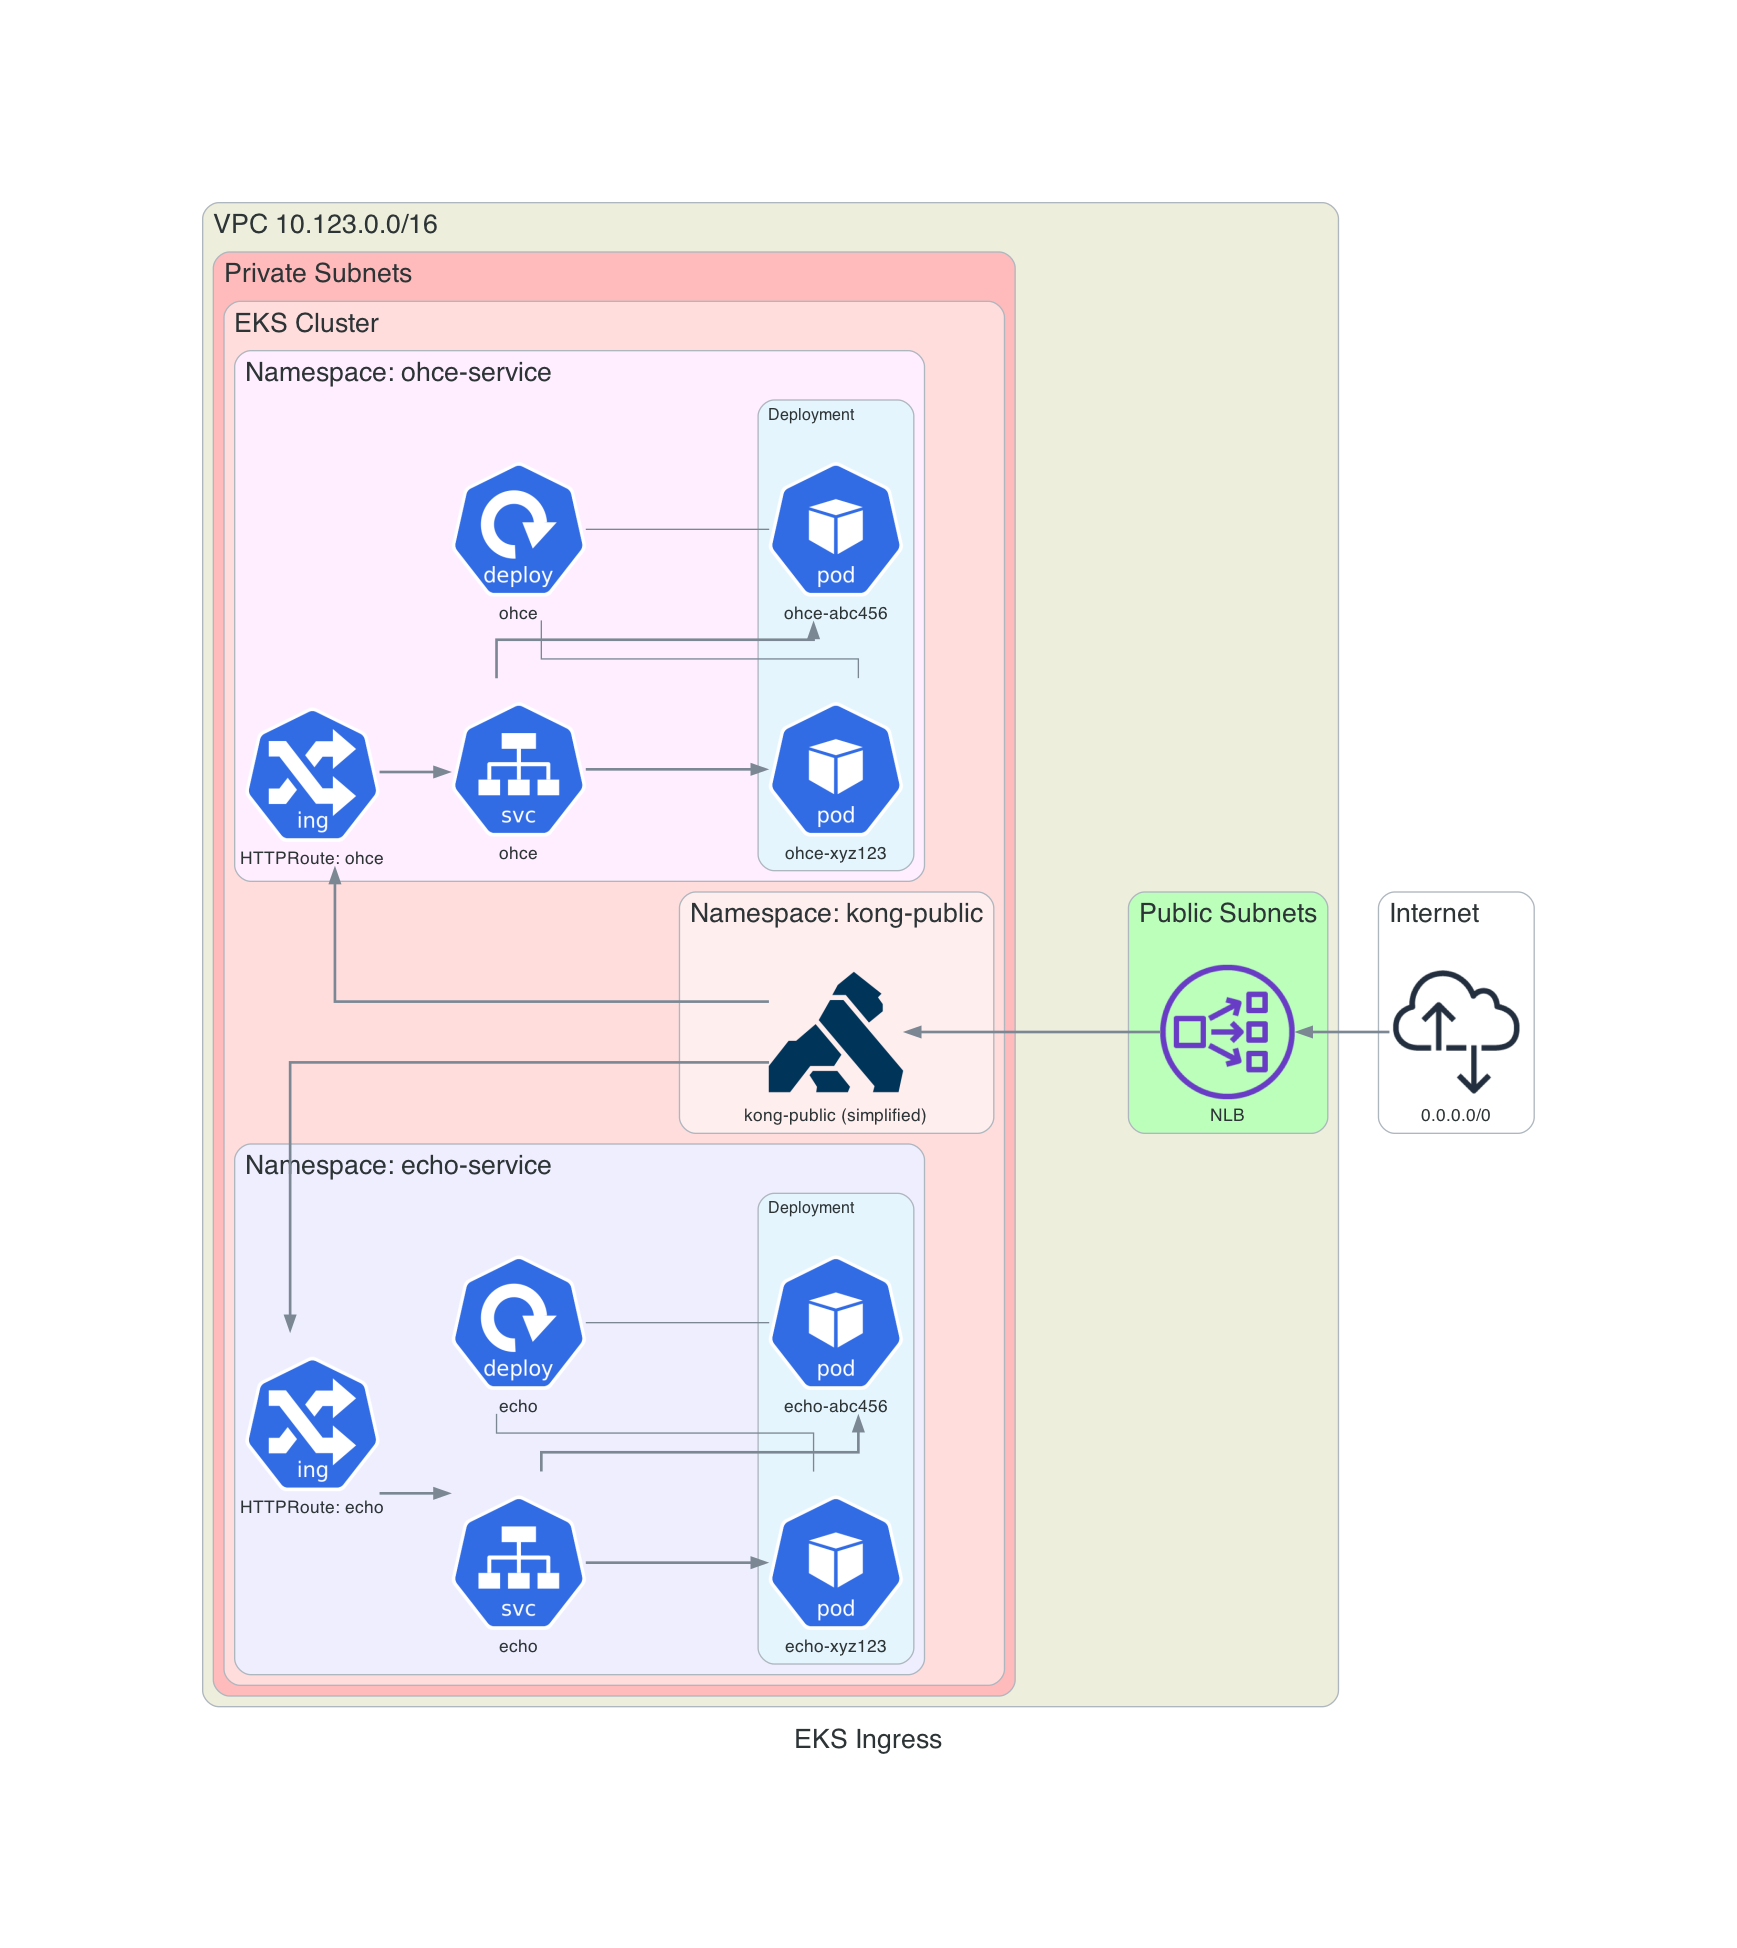
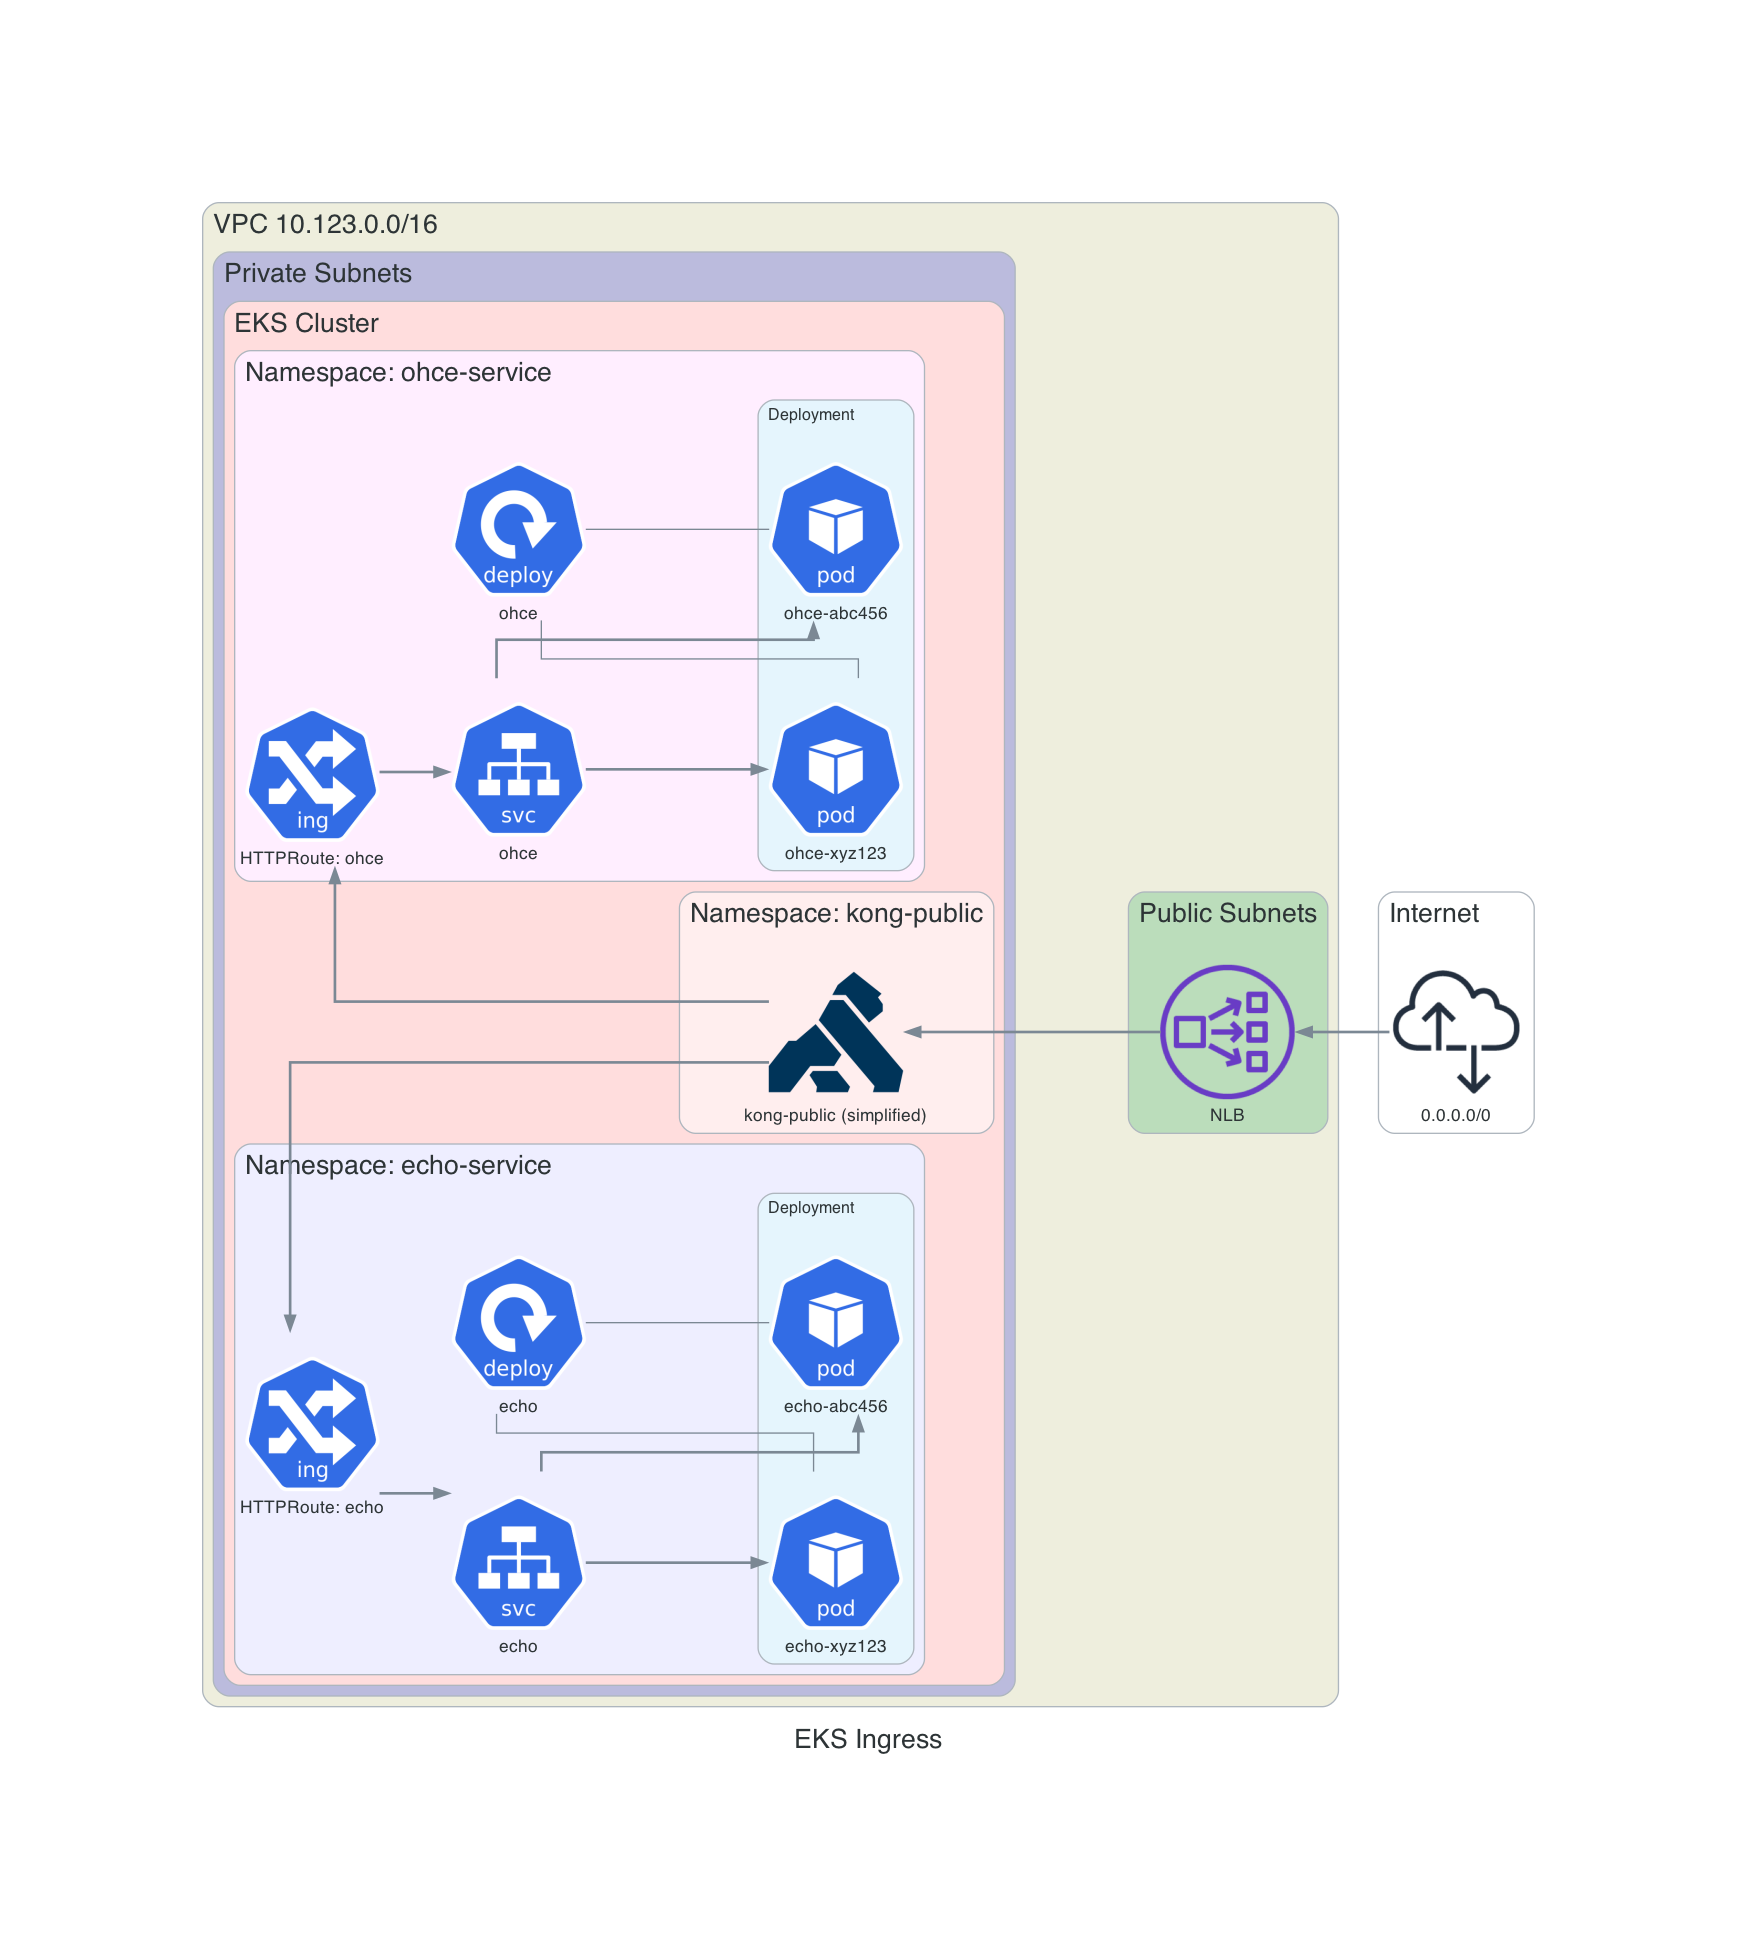
Private subnets blue, public green

Changed region(s): [[0.1244, 0.1232, 0.5907, 0.8932], [0.6528, 0.4312, 0.7772, 0.5852]]

diff --git a/images/diag2.py b/images/diag2.py
@@ -31,12 +31,12 @@ internet_attr = {
 
 public_attr = {
     "fontsize": "20",
-    "bgcolor": "#bfb"
+    "bgcolor": "#bdb"
 }
 
 priv_attr = {
     "fontsize": "20",
-    "bgcolor": "#fbb"
+    "bgcolor": "#bbd"
 }
 
 ns1_attr = {
